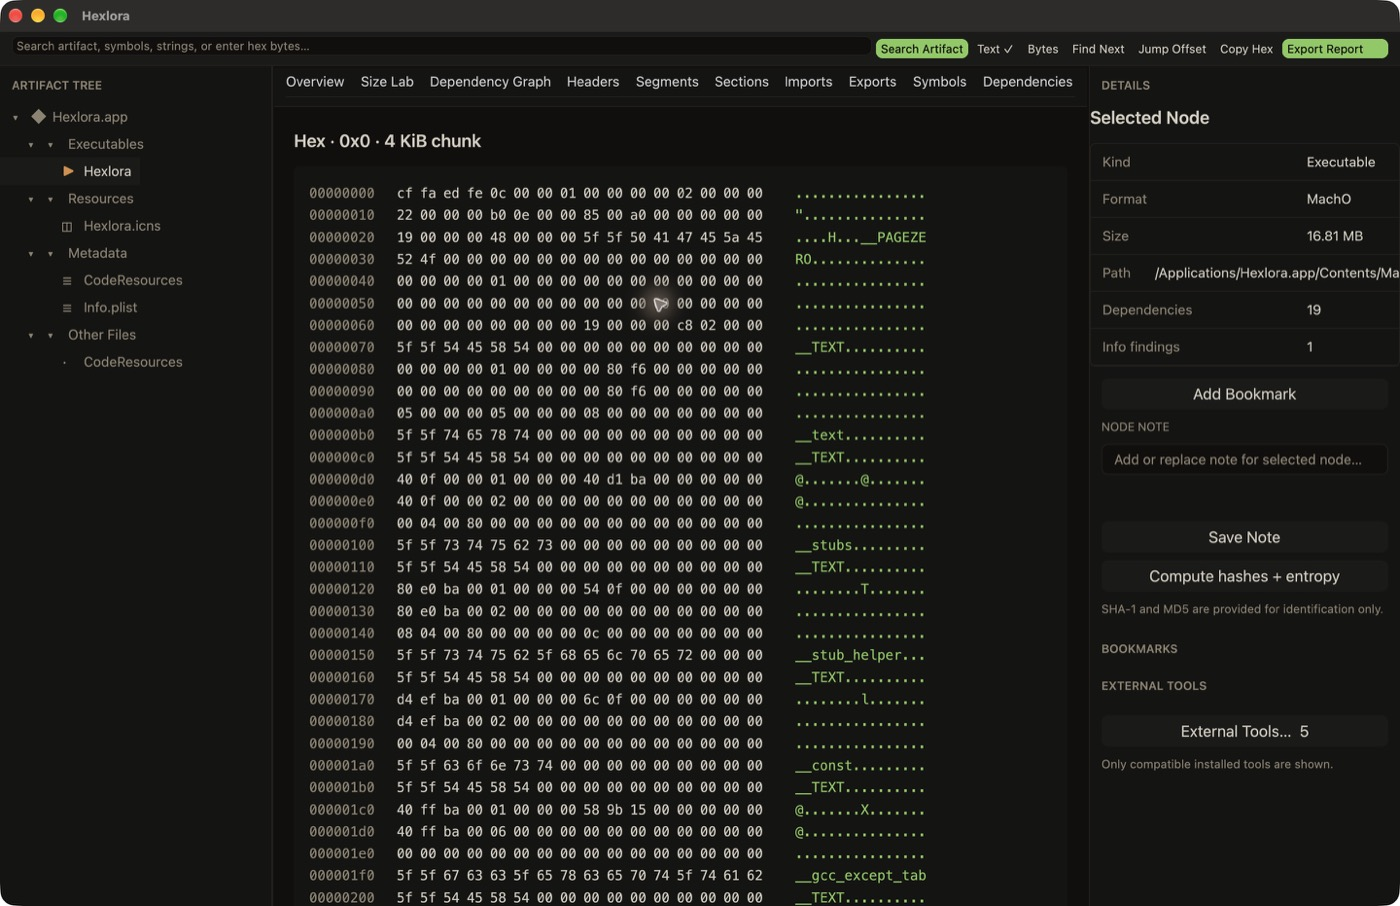
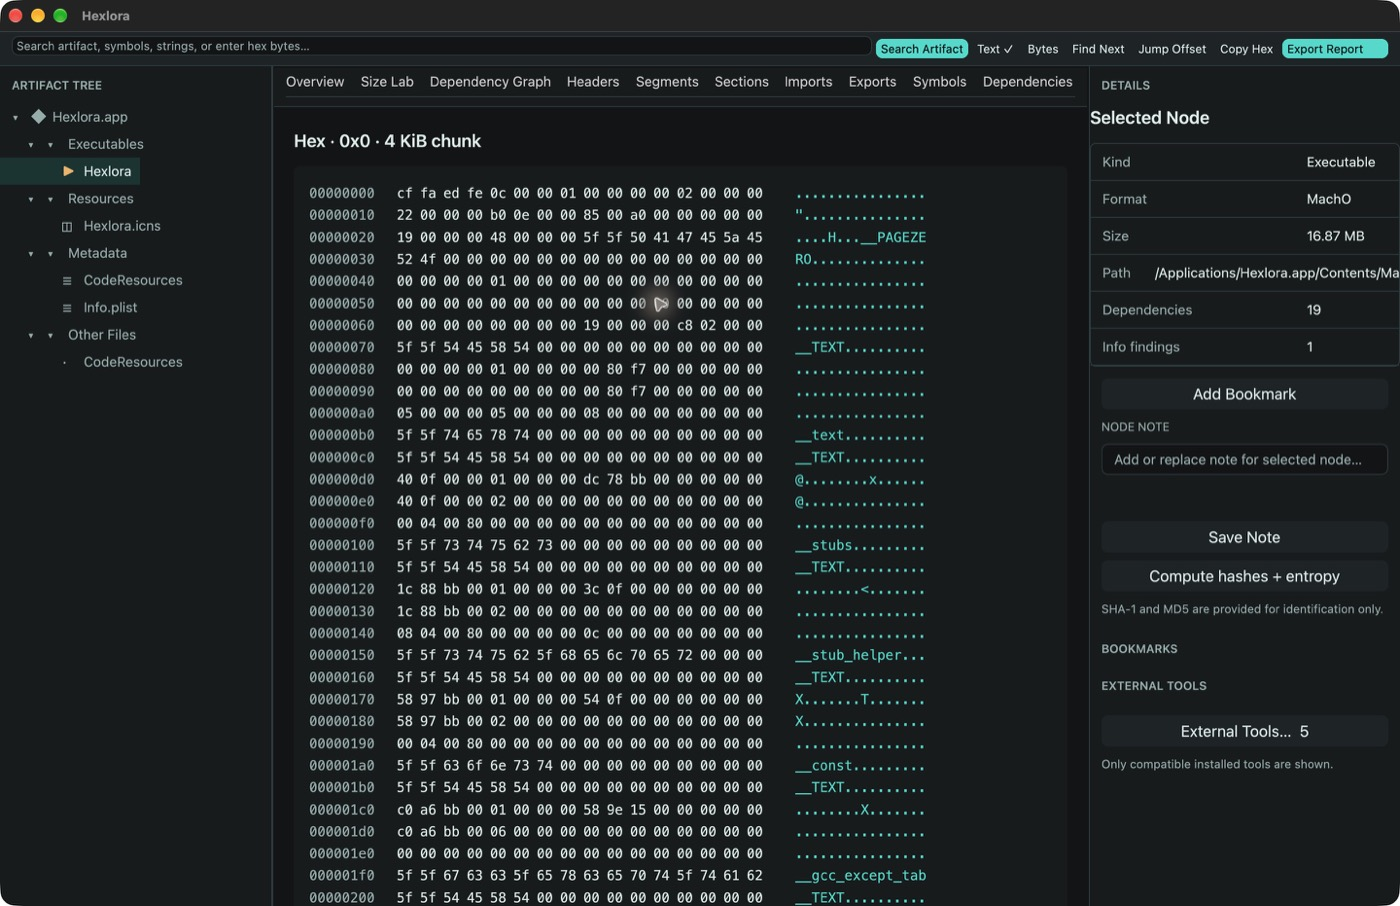
Release Hexlora 1.1.20 with unified theme and refreshed gallery

diff --git a/docs/index.html b/docs/index.html
@@ -48,11 +48,11 @@
 
       <div class="inspector carousel" id="gallery" aria-label="Hexlora screenshots" aria-roledescription="carousel">
         <div class="slides" aria-live="polite">
-          <figure class="slide active"><img src="assets/screenshots/overview.jpg" alt="Hexlora overview of Hexlora.app"><figcaption><b>Application overview</b><span>Explore a complete macOS app as a logical artifact tree.</span></figcaption></figure>
-          <figure class="slide"><img src="assets/screenshots/executable.jpg" alt="Hexlora Mach-O executable overview" loading="lazy"><figcaption><b>Binary inspection</b><span>See architecture, format, entry point, imports, and exports.</span></figcaption></figure>
-          <figure class="slide"><img src="assets/screenshots/dependencies.jpg" alt="Hexlora dependency graph" loading="lazy"><figcaption><b>Dependency graph</b><span>Resolve requested libraries across every architecture.</span></figcaption></figure>
-          <figure class="slide"><img src="assets/screenshots/strings.jpg" alt="Hexlora extracted strings view" loading="lazy"><figcaption><b>Mapped strings</b><span>Search extracted content with file and virtual addresses.</span></figcaption></figure>
-          <figure class="slide"><img src="assets/screenshots/hex.jpg" alt="Hexlora hexadecimal viewer" loading="lazy"><figcaption><b>Hex windows</b><span>Inspect bounded 4 KiB chunks without loading the whole file.</span></figcaption></figure>
+          <figure class="slide active"><img src="assets/screenshots/overview.jpg?v=1.1.20" alt="Hexlora overview of Hexlora.app"><figcaption><b>Application overview</b><span>Explore a complete macOS app as a logical artifact tree.</span></figcaption></figure>
+          <figure class="slide"><img src="assets/screenshots/executable.jpg?v=1.1.20" alt="Hexlora Mach-O executable overview" loading="lazy"><figcaption><b>Binary inspection</b><span>See architecture, format, entry point, imports, and exports.</span></figcaption></figure>
+          <figure class="slide"><img src="assets/screenshots/dependencies.jpg?v=1.1.20" alt="Hexlora dependency graph" loading="lazy"><figcaption><b>Dependency graph</b><span>Resolve requested libraries across every architecture.</span></figcaption></figure>
+          <figure class="slide"><img src="assets/screenshots/strings.jpg?v=1.1.20" alt="Hexlora extracted strings view" loading="lazy"><figcaption><b>Mapped strings</b><span>Search extracted content with file and virtual addresses.</span></figcaption></figure>
+          <figure class="slide"><img src="assets/screenshots/hex.jpg?v=1.1.20" alt="Hexlora hexadecimal viewer" loading="lazy"><figcaption><b>Hex windows</b><span>Inspect bounded 4 KiB chunks without loading the whole file.</span></figcaption></figure>
         </div>
         <button class="carousel-arrow previous" type="button" data-previous aria-label="Previous screenshot">←</button>
         <button class="carousel-arrow next" type="button" data-next aria-label="Next screenshot">→</button>
